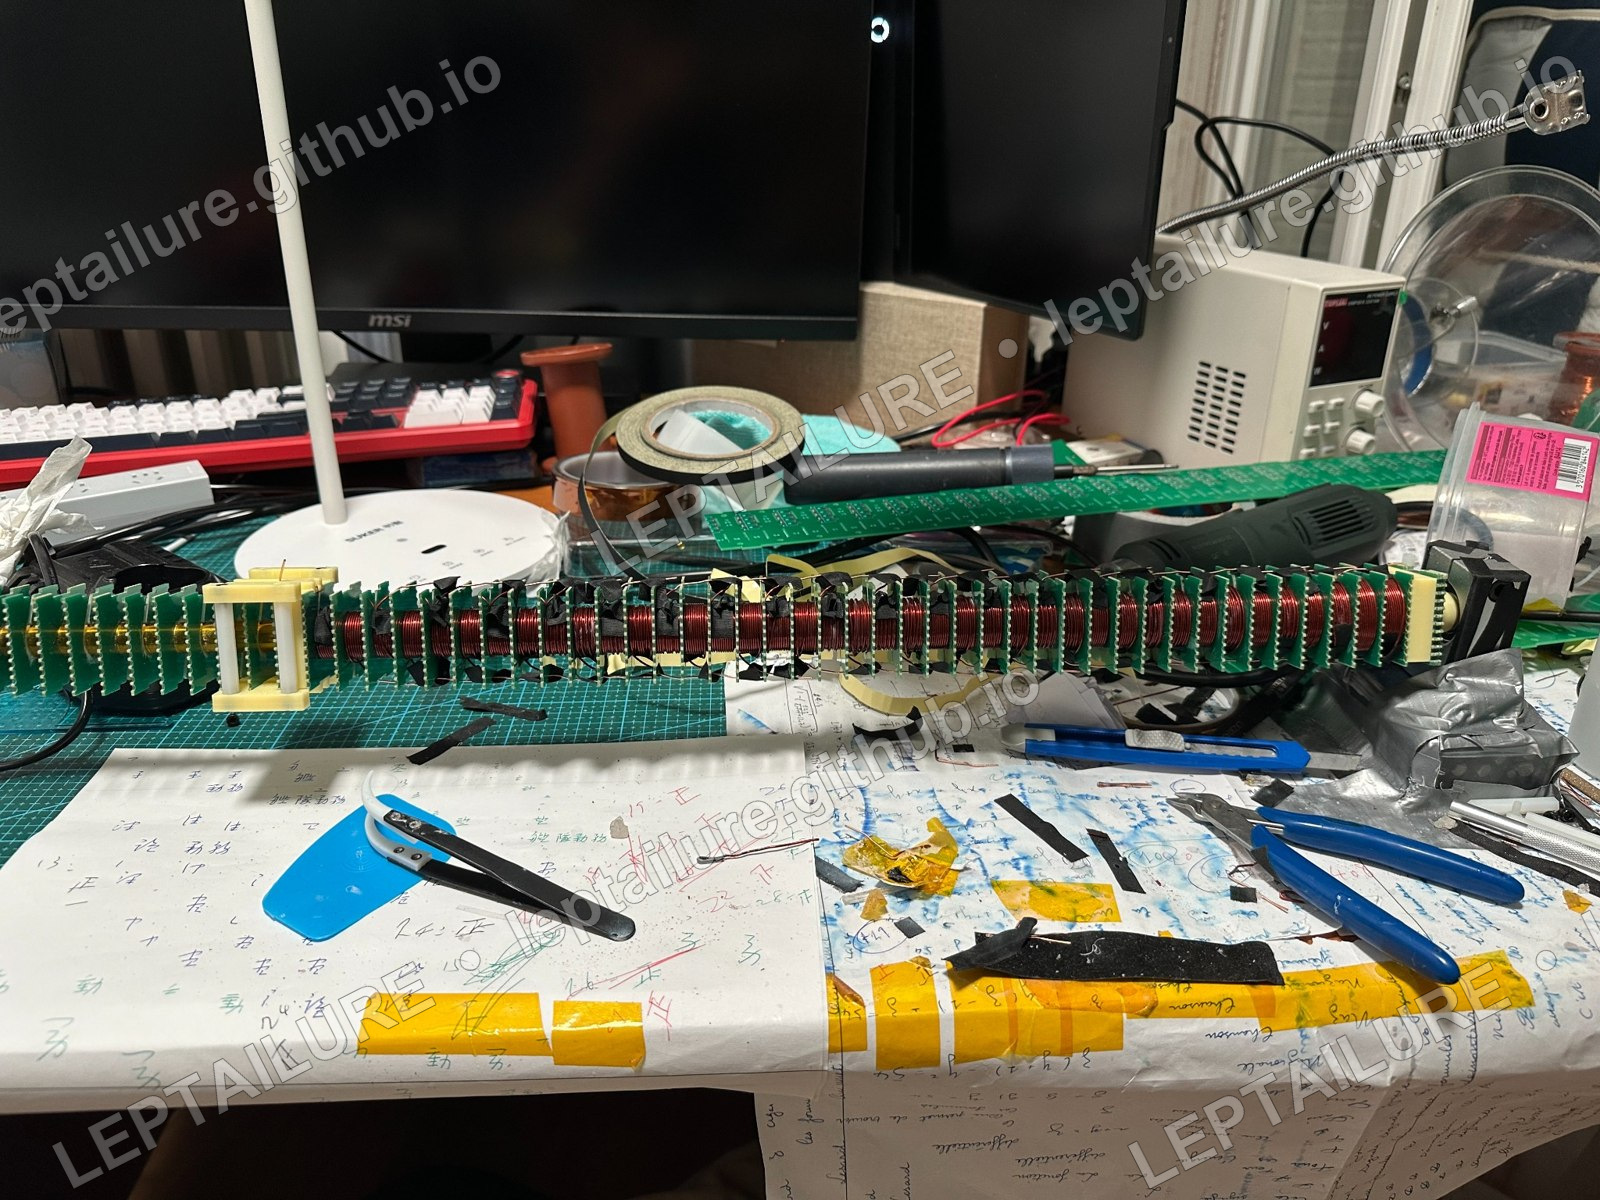
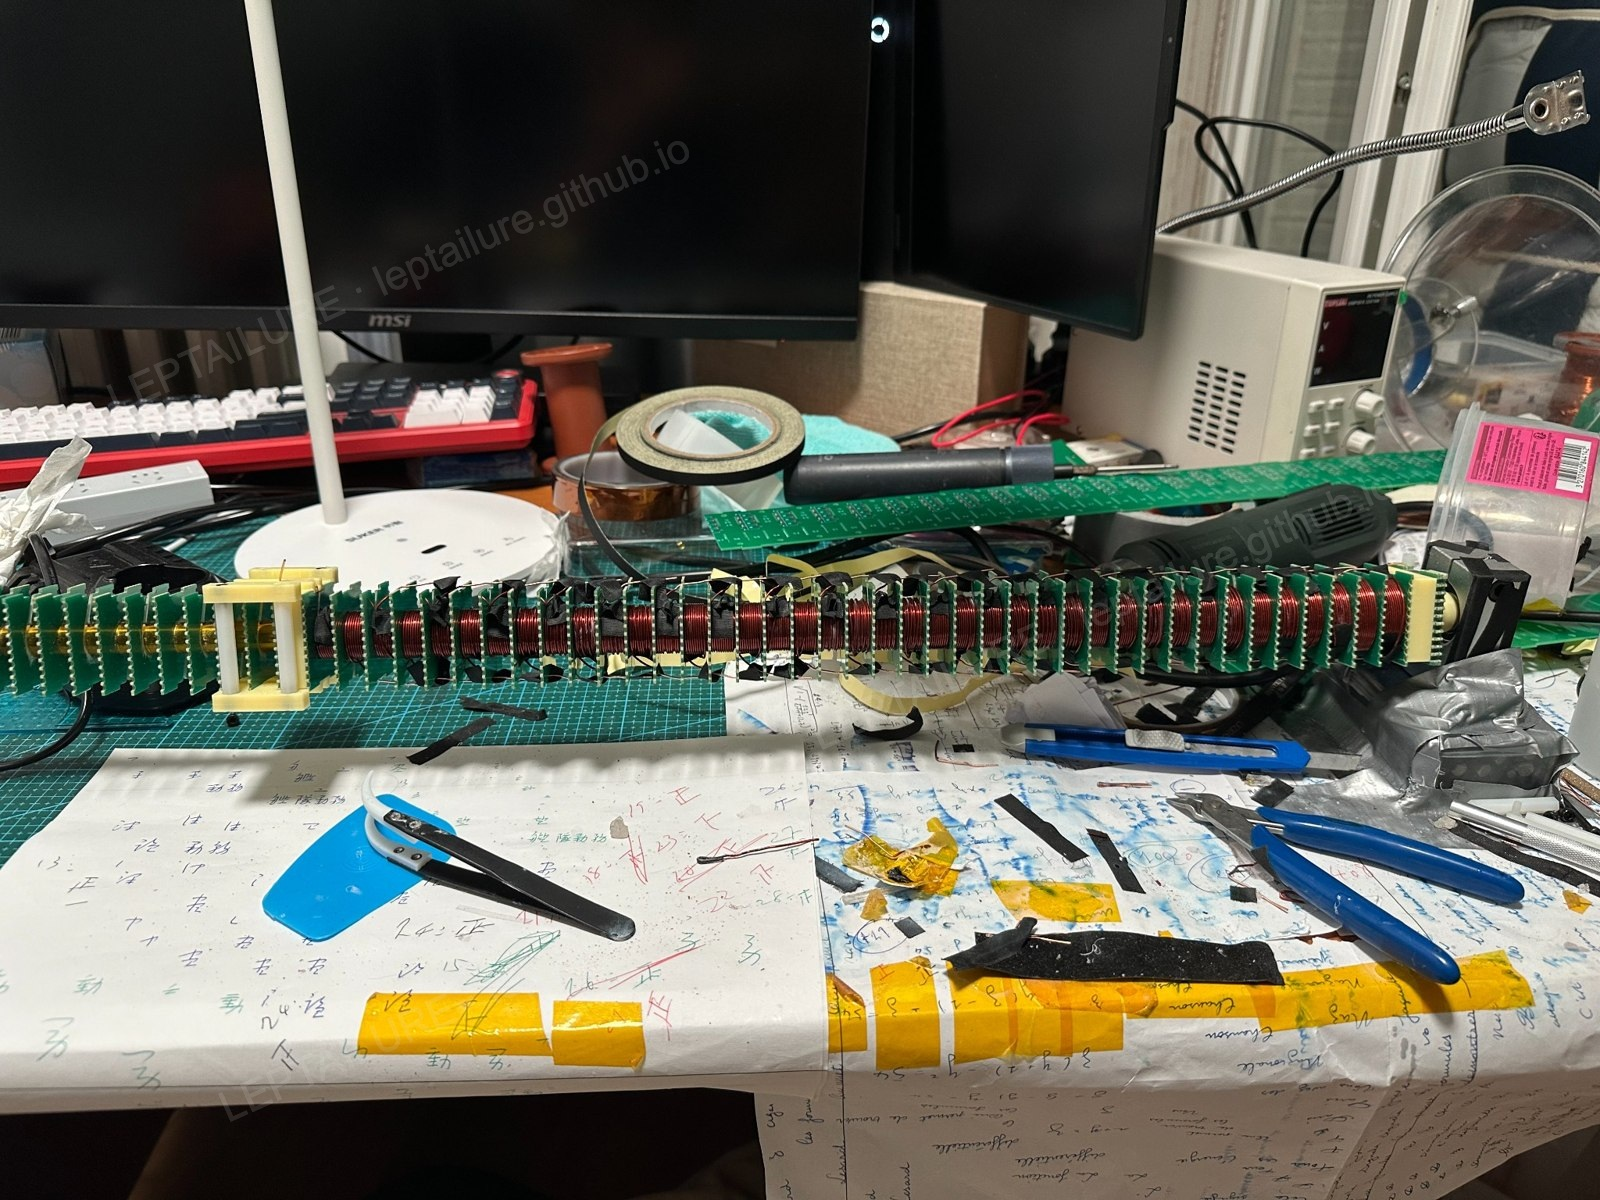
Alléger les filigranes des images du portfolio
Réexporter les 14 images depuis leurs originaux avec trois signatures espacées à 12 % d’opacité. Actualiser les liens des images et de la galerie pour éviter les anciennes versions en cache.

diff --git a/projects/reluctance.html b/projects/reluctance.html
@@ -39,62 +39,62 @@
   <section class="project-section" aria-labelledby="pcb26r1-title">
     <h2 id="pcb26r1-title">Carte de commande — 26R1</h2>
     <p>Vue du routage de la carte de commande embarquée, révision 26R1.</p>
-    <figure class="pcb-figure"><a href="../assets/control-board-26r1.png" target="_blank" rel="noopener" title="Ouvrir le routage en pleine résolution"><img src="../assets/control-board-26r1.png" alt="Vue complète du routage PCB de la carte de commande 26R1" width="2048" height="311" loading="lazy"></a><figcaption>Révision 26R1 · Vue complète du PCB.</figcaption></figure>
+    <figure class="pcb-figure"><a href="../assets/control-board-26r1.png?v=wm2" target="_blank" rel="noopener" title="Ouvrir le routage en pleine résolution"><img src="../assets/control-board-26r1.png?v=wm2" alt="Vue complète du routage PCB de la carte de commande 26R1" width="2048" height="311" loading="lazy"></a><figcaption>Révision 26R1 · Vue complète du PCB.</figcaption></figure>
   </section>
   <section class="project-section" aria-labelledby="journal-title">
     <h2 id="journal-title">Fabrication et essais</h2>
     <p class="section-intro">Photographies des étapes de réalisation et observations expérimentales.</p>
     <div class="photo-grid">
       <figure>
-        <a href="../assets/winding-tool.jpg" target="_blank" rel="noopener" title="Ouvrir la photographie en pleine résolution"><img src="../assets/winding-tool.jpg" alt="Fabrication des bobinages" width="1600" height="1200" loading="lazy"></a>
+        <a href="../assets/winding-tool.jpg?v=wm2" target="_blank" rel="noopener" title="Ouvrir la photographie en pleine résolution"><img src="../assets/winding-tool.jpg?v=wm2" alt="Fabrication des bobinages" width="1600" height="1200" loading="lazy"></a>
         <figcaption><strong>Fabrication des bobinages</strong>Outillage et préparation mécanique du bobinage.</figcaption>
       </figure>
       <figure>
-        <a href="../assets/coil-detail.jpg" target="_blank" rel="noopener" title="Ouvrir la photographie en pleine résolution"><img src="../assets/coil-detail.jpg" alt="Assemblage des bobinages" width="1600" height="1200" loading="lazy"></a>
+        <a href="../assets/coil-detail.jpg?v=wm2" target="_blank" rel="noopener" title="Ouvrir la photographie en pleine résolution"><img src="../assets/coil-detail.jpg?v=wm2" alt="Assemblage des bobinages" width="1600" height="1200" loading="lazy"></a>
         <figcaption><strong>Assemblage des bobinages</strong>Détail de la réalisation des sous-ensembles électromagnétiques.</figcaption>
       </figure>
       <figure>
-        <a href="../assets/coil-assembly.jpg" target="_blank" rel="noopener" title="Ouvrir la photographie en pleine résolution"><img src="../assets/coil-assembly.jpg" alt="Intégration mécanique" width="1600" height="1200" loading="lazy"></a>
+        <a href="../assets/coil-assembly.jpg?v=wm2" target="_blank" rel="noopener" title="Ouvrir la photographie en pleine résolution"><img src="../assets/coil-assembly.jpg?v=wm2" alt="Intégration mécanique" width="1600" height="1200" loading="lazy"></a>
         <figcaption><strong>Intégration mécanique</strong>Assemblage des éléments bobinés et de leurs supports.</figcaption>
       </figure>
       <figure>
-        <a href="../assets/insulation-observation.jpg" target="_blank" rel="noopener" title="Ouvrir la photographie en pleine résolution"><img src="../assets/insulation-observation.jpg" alt="Observation lors du contrôle d’isolation" width="1600" height="1200" loading="lazy"></a>
+        <a href="../assets/insulation-observation.jpg?v=wm2" target="_blank" rel="noopener" title="Ouvrir la photographie en pleine résolution"><img src="../assets/insulation-observation.jpg?v=wm2" alt="Observation lors du contrôle d’isolation" width="1600" height="1200" loading="lazy"></a>
         <figcaption><strong>Observation lors du contrôle d’isolation</strong>Montage de mesure photographié pendant les essais des bobinages.</figcaption>
       </figure>
       <figure>
-        <a href="../assets/power-boards.jpg" target="_blank" rel="noopener" title="Ouvrir la photographie en pleine résolution"><img src="../assets/power-boards.jpg" alt="Circuits de puissance" width="1600" height="1200" loading="lazy"></a>
+        <a href="../assets/power-boards.jpg?v=wm2" target="_blank" rel="noopener" title="Ouvrir la photographie en pleine résolution"><img src="../assets/power-boards.jpg?v=wm2" alt="Circuits de puissance" width="1600" height="1200" loading="lazy"></a>
         <figcaption><strong>Circuits de puissance</strong>Cartes de commutation à IGBT et cartes à diodes avant intégration.</figcaption>
       </figure>
       <figure>
-        <a href="../assets/switching-observation.jpg" target="_blank" rel="noopener" title="Ouvrir la photographie en pleine résolution"><img src="../assets/switching-observation.jpg" alt="Observation de la commutation" width="1600" height="1200" loading="lazy"></a>
+        <a href="../assets/switching-observation.jpg?v=wm2" target="_blank" rel="noopener" title="Ouvrir la photographie en pleine résolution"><img src="../assets/switching-observation.jpg?v=wm2" alt="Observation de la commutation" width="1600" height="1200" loading="lazy"></a>
         <figcaption><strong>Observation de la commutation</strong>Oscillogramme brut relevé pendant un essai sur un sous-ensemble.</figcaption>
       </figure>
       <figure>
-        <a href="../assets/interconnects.jpg" target="_blank" rel="noopener" title="Ouvrir la photographie en pleine résolution"><img src="../assets/interconnects.jpg" alt="Assemblage des interconnexions" width="1600" height="1200" loading="lazy"></a>
+        <a href="../assets/interconnects.jpg?v=wm2" target="_blank" rel="noopener" title="Ouvrir la photographie en pleine résolution"><img src="../assets/interconnects.jpg?v=wm2" alt="Assemblage des interconnexions" width="1600" height="1200" loading="lazy"></a>
         <figcaption><strong>Assemblage des interconnexions</strong>Réalisation des conducteurs et mise en place de gaines en PTFE.</figcaption>
       </figure>
       <figure>
-        <a href="../assets/integration-side.jpg" target="_blank" rel="noopener" title="Ouvrir la photographie en pleine résolution"><img src="../assets/integration-side.jpg" alt="Intégration des cartes" width="1600" height="1200" loading="lazy"></a>
+        <a href="../assets/integration-side.jpg?v=wm2" target="_blank" rel="noopener" title="Ouvrir la photographie en pleine résolution"><img src="../assets/integration-side.jpg?v=wm2" alt="Intégration des cartes" width="1600" height="1200" loading="lazy"></a>
         <figcaption><strong>Intégration des cartes</strong>Vue latérale du prototype au cours de son assemblage.</figcaption>
       </figure>
       <figure>
-        <a href="../assets/assembly.jpg" target="_blank" rel="noopener" title="Ouvrir la photographie en pleine résolution"><img src="../assets/assembly.jpg" alt="Prototype assemblé" width="1600" height="1200" loading="lazy"></a>
+        <a href="../assets/assembly.jpg?v=wm2" target="_blank" rel="noopener" title="Ouvrir la photographie en pleine résolution"><img src="../assets/assembly.jpg?v=wm2" alt="Prototype assemblé" width="1600" height="1200" loading="lazy"></a>
         <figcaption><strong>Prototype assemblé</strong>Intégration des sous-ensembles mécaniques et électroniques.</figcaption>
       </figure>
       <figure>
-        <a href="../assets/control-board.jpg" target="_blank" rel="noopener" title="Ouvrir la photographie en pleine résolution"><img src="../assets/control-board.jpg" alt="Carte de commande" width="1600" height="1200" loading="lazy"></a>
+        <a href="../assets/control-board.jpg?v=wm2" target="_blank" rel="noopener" title="Ouvrir la photographie en pleine résolution"><img src="../assets/control-board.jpg?v=wm2" alt="Carte de commande" width="1600" height="1200" loading="lazy"></a>
         <figcaption><strong>Carte de commande</strong>Assemblage de la carte de commande et de supervision sur plaque chauffante.</figcaption>
       </figure>
       <figure>
-        <a href="../assets/control-integrated.jpg" target="_blank" rel="noopener" title="Ouvrir la photographie en pleine résolution"><img src="../assets/control-integrated.jpg" alt="Commande et puissance réunies" width="1600" height="1200" loading="lazy"></a>
+        <a href="../assets/control-integrated.jpg?v=wm2" target="_blank" rel="noopener" title="Ouvrir la photographie en pleine résolution"><img src="../assets/control-integrated.jpg?v=wm2" alt="Commande et puissance réunies" width="1600" height="1200" loading="lazy"></a>
         <figcaption><strong>Commande et puissance réunies</strong>Intégration de la commande embarquée et des composants de puissance.</figcaption>
       </figure>
       <figure>
-        <a href="../assets/current-observation.jpg" target="_blank" rel="noopener" title="Ouvrir la photographie en pleine résolution"><img src="../assets/current-observation.jpg" alt="Relevé expérimental de courant" width="1600" height="1200" loading="lazy"></a>
+        <a href="../assets/current-observation.jpg?v=wm2" target="_blank" rel="noopener" title="Ouvrir la photographie en pleine résolution"><img src="../assets/current-observation.jpg?v=wm2" alt="Relevé expérimental de courant" width="1600" height="1200" loading="lazy"></a>
         <figcaption><strong>Relevé expérimental de courant</strong>Capture d’oscilloscope conservée comme observation brute d’un essai.</figcaption>
       </figure>
       <figure>
-        <a href="../assets/test-setup.jpg" target="_blank" rel="noopener" title="Ouvrir la photographie en pleine résolution"><img src="../assets/test-setup.jpg" alt="Installation de mesure" width="1600" height="1200" loading="lazy"></a>
+        <a href="../assets/test-setup.jpg?v=wm2" target="_blank" rel="noopener" title="Ouvrir la photographie en pleine résolution"><img src="../assets/test-setup.jpg?v=wm2" alt="Installation de mesure" width="1600" height="1200" loading="lazy"></a>
         <figcaption><strong>Installation de mesure</strong>Vue du prototype et du matériel utilisés lors des essais.</figcaption>
       </figure>
     </div>

diff --git a/index.html b/index.html
@@ -8,7 +8,7 @@
   <title>Leptailure — Électronique & expérimentation</title>
   <link rel="icon" href="favicon.png" type="image/png">
   <link rel="stylesheet" href="home-classic.css?v=classic-1">
-  <script src="home-classic.js?v=classic-1" defer></script>
+  <script src="home-classic.js?v=wm2" defer></script>
 <script src="visit-config.js" defer></script>
 <script src="visit-tracker.js" defer></script>
 </head>
@@ -26,7 +26,7 @@
       <a class="button" href="#projets">Explorer les projets <span aria-hidden="true">↘</span></a>
       <p class="hero-foot">Électronique de puissance <span> / </span> Systèmes embarqués <span> / </span> Instrumentation</p>
     </div>
-    <figure class="hero-image"><img src="assets/control-board.jpg" alt="Carte électronique de commande conçue et assemblée pour le prototype personnel" width="1600" height="1200" fetchpriority="high"><figcaption><span>01 / SUR LE BANC</span><span>Conception & réalisation personnelles</span></figcaption></figure>
+    <figure class="hero-image"><img src="assets/control-board.jpg?v=wm2" alt="Carte électronique de commande conçue et assemblée pour le prototype personnel" width="1600" height="1200" fetchpriority="high"><figcaption><span>01 / SUR LE BANC</span><span>Conception & réalisation personnelles</span></figcaption></figure>
   </section>
   <div class="toolbelt"><div class="wrap"><span>MODÉLISER</span><span>CONCEVOIR</span><span>PROGRAMMER</span><span>MESURER</span><span>ITÉRER</span></div></div>
 
@@ -35,12 +35,12 @@
     <article id="reluctance" class="featured">
       <div class="featured-header"><span class="badge">PROJET PERSONNEL INDÉPENDANT</span><span class="mono">2026 · PLUSIEURS VERSIONS</span></div>
       <div class="project-intro"><div><h3>Système électromagnétique<br>à réluctance</h3><p class="subtitle">Modélisation · Électronique de puissance · Instrumentation</p></div><p>Projet initié en février 2026 et développé à travers plusieurs versions successives. J’ai assuré la conception et la réalisation de l’ensemble, en associant simulation numérique, circuits imprimés, commande embarquée, mécanique et expérimentation.</p></div>
-      <figure class="feature-photo"><a class="zoom" href="assets/assembly.jpg" data-caption="Intégration des sous-ensembles mécaniques et électroniques du prototype."><img src="assets/assembly.jpg" alt="Vue d’ensemble du prototype électromécanique assemblé" width="1600" height="1200" loading="lazy"></a><figcaption>Vue d’ensemble du prototype · Intégration mécanique et électronique</figcaption></figure>
+      <figure class="feature-photo"><a class="zoom" href="assets/assembly.jpg?v=wm2" data-caption="Intégration des sous-ensembles mécaniques et électroniques du prototype."><img src="assets/assembly.jpg?v=wm2" alt="Vue d’ensemble du prototype électromécanique assemblé" width="1600" height="1200" loading="lazy"></a><figcaption>Vue d’ensemble du prototype · Intégration mécanique et électronique</figcaption></figure>
       <section class="pcb-revision" aria-labelledby="pcb26r1-title">
         <div class="pcb-heading"><div><p class="eyebrow">CONCEPTION ÉLECTRONIQUE / PCB</p><h4 id="pcb26r1-title">Carte de commande — 26R1</h4></div><span class="badge">RÉVISION 26R1</span></div>
         <p class="pcb-description">Vue du routage de la carte de commande embarquée, révision 26R1.</p>
-        <figure class="pcb-preview"><a class="zoom" href="assets/control-board-26r1.png" data-caption="Carte de commande — révision 26R1. Vue du routage PCB."><img src="assets/control-board-26r1.png" alt="Vue complète du routage PCB de la carte de commande, révision 26R1" width="2048" height="311" loading="lazy"></a><figcaption>Carte de commande · 26R1 · Cliquer sur l’image pour l’agrandir.</figcaption></figure>
-        <a class="pcb-original" href="assets/control-board-26r1.png" target="_blank" rel="noopener">Ouvrir l’image en pleine résolution ↗</a>
+        <figure class="pcb-preview"><a class="zoom" href="assets/control-board-26r1.png?v=wm2" data-caption="Carte de commande — révision 26R1. Vue du routage PCB."><img src="assets/control-board-26r1.png?v=wm2" alt="Vue complète du routage PCB de la carte de commande, révision 26R1" width="2048" height="311" loading="lazy"></a><figcaption>Carte de commande · 26R1 · Cliquer sur l’image pour l’agrandir.</figcaption></figure>
+        <a class="pcb-original" href="assets/control-board-26r1.png?v=wm2" target="_blank" rel="noopener">Ouvrir l’image en pleine résolution ↗</a>
       </section>
       <div class="contributions">
         <div><span class="mini-index">01</span><h4>Modélisation & optimisation</h4><p>Étude électromagnétique sous Ansys Maxwell, automatisation des campagnes de simulation avec Python et optimisation multicritère avec Optuna pour comparer les configurations.</p></div>

diff --git a/home-classic.js b/home-classic.js
@@ -17,7 +17,7 @@ const gallery = document.getElementById('photo-gallery');
 photos.forEach(([file,title,caption]) => {
   const figure = document.createElement('figure');
   const link = document.createElement('a');
-  link.href = 'assets/' + file;
+  link.href = 'assets/' + file + '?v=wm2';
   link.className = 'zoom';
   link.dataset.caption = title + ' — ' + caption;
   const img = document.createElement('img');
